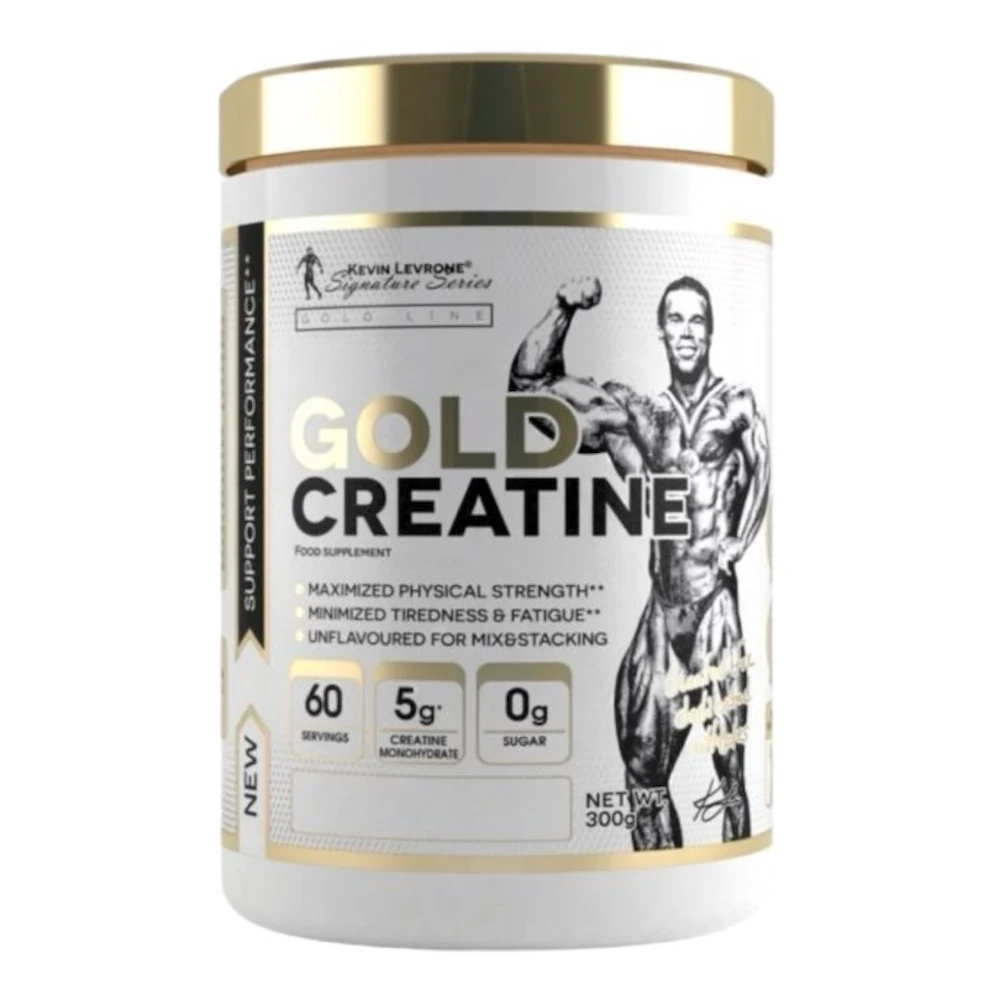
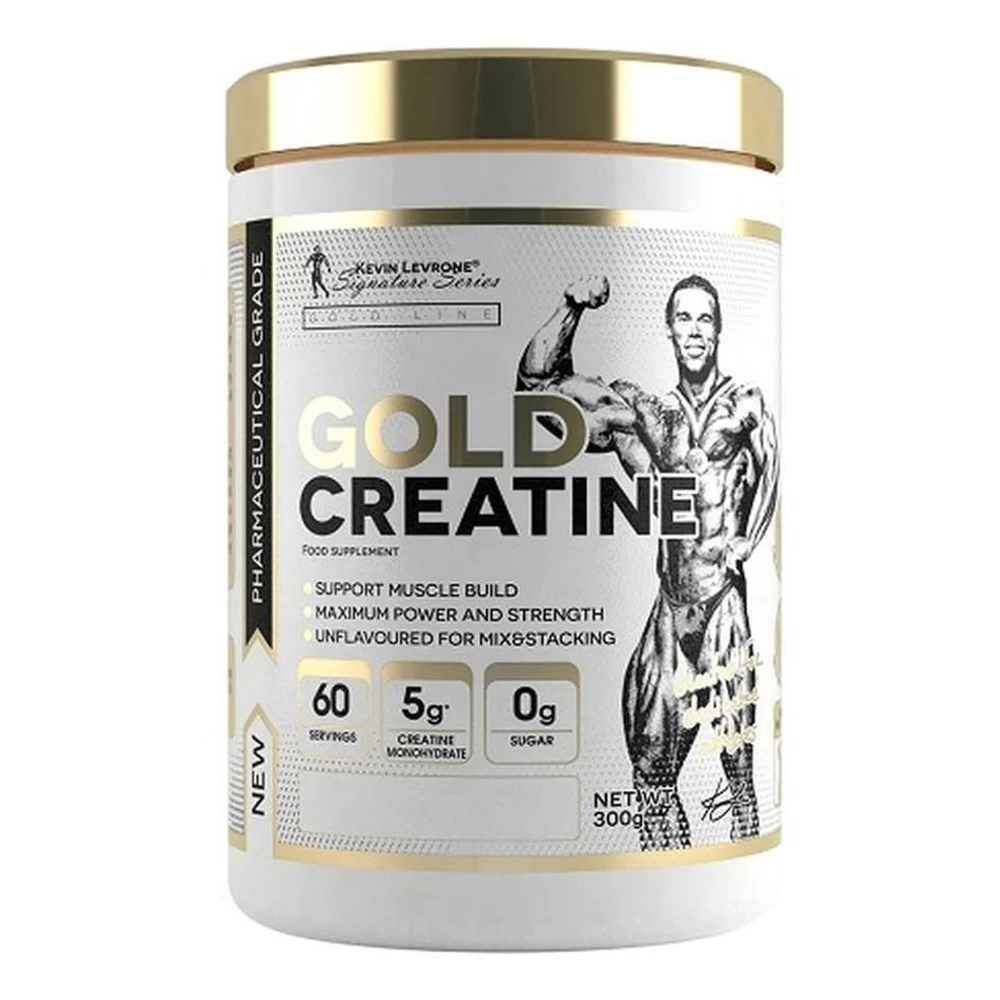
Use a sharper pack photo for Kevin Levrone Gold Creatine

Changed region(s): [[0.217, 0.031, 0.806, 0.93], [0.403, 0.93, 0.682, 0.961]]

diff --git a/scripts/seed-brand-products.ts b/scripts/seed-brand-products.ts
@@ -4835,13 +4835,13 @@ const products: BrandProduct[] = [
     flavor: "بدون طعم",
     size: "۳۰۰ گرم",
     imageUrl: "/images/products/kevin-levrone-gold-creatine.webp",
-    // Pack photo from fitcookie.co.uk; the table is from shop-apotheke.com
-    // (EU label, 60 × 5 g = 300 g). Directions are the shops' wording; the
-    // pack photo itself shows no back label.
+    // Pack photo and table both from shop-apotheke.com (EU label, 60 × 5 g
+    // = 300 g; its pack front says "Support muscle build / Maximum power and
+    // strength"). Directions are the shops' wording; no back label found.
     description:
       "گلد کراتین کوین لورون (Signature Series، Gold Line)؛ کراتین مونوهیدرات بدون طعم و بدون قند برای ترکیب با سایر مکملها. هر وعده (۱ اسکوپ، ۵ گرم) ۵ گرم کراتین مونوهیدرات (معادل ۴٫۴ گرم کراتین) و ۱٫۴ میلیگرم ویتامین B6 دارد و بستهی ۳۰۰ گرمی ۶۰ وعده است.\nمواد تشکیلدهنده: کراتین مونوهیدرات، ویتامین B6 (پیریدوکسین هیدروکلراید).",
     manufacturerClaims:
-      "۵ گرم کراتین مونوهیدرات و ۰ گرم قند در هر وعده\nحداکثر قدرت بدنی و کاهش خستگی (طبق بستهبندی)\nبدون طعم برای ترکیب با مکملهای دیگر\nاثر مثبت کراتین با مصرف روزانهی ۳ گرم به دست میآید",
+      "۵ گرم کراتین مونوهیدرات و ۰ گرم قند در هر وعده\nحمایت از ساخت عضله و حداکثر قدرت و توان (طبق بستهبندی)\nبدون طعم برای ترکیب با مکملهای دیگر\nاثر مثبت کراتین با مصرف روزانهی ۳ گرم به دست میآید",
     servingSize: "۱ اسکوپ (۵ گرم)",
     nutritionFacts: [
       { label: "کراتین مونوهیدرات", amount: "۵ گرم" },
